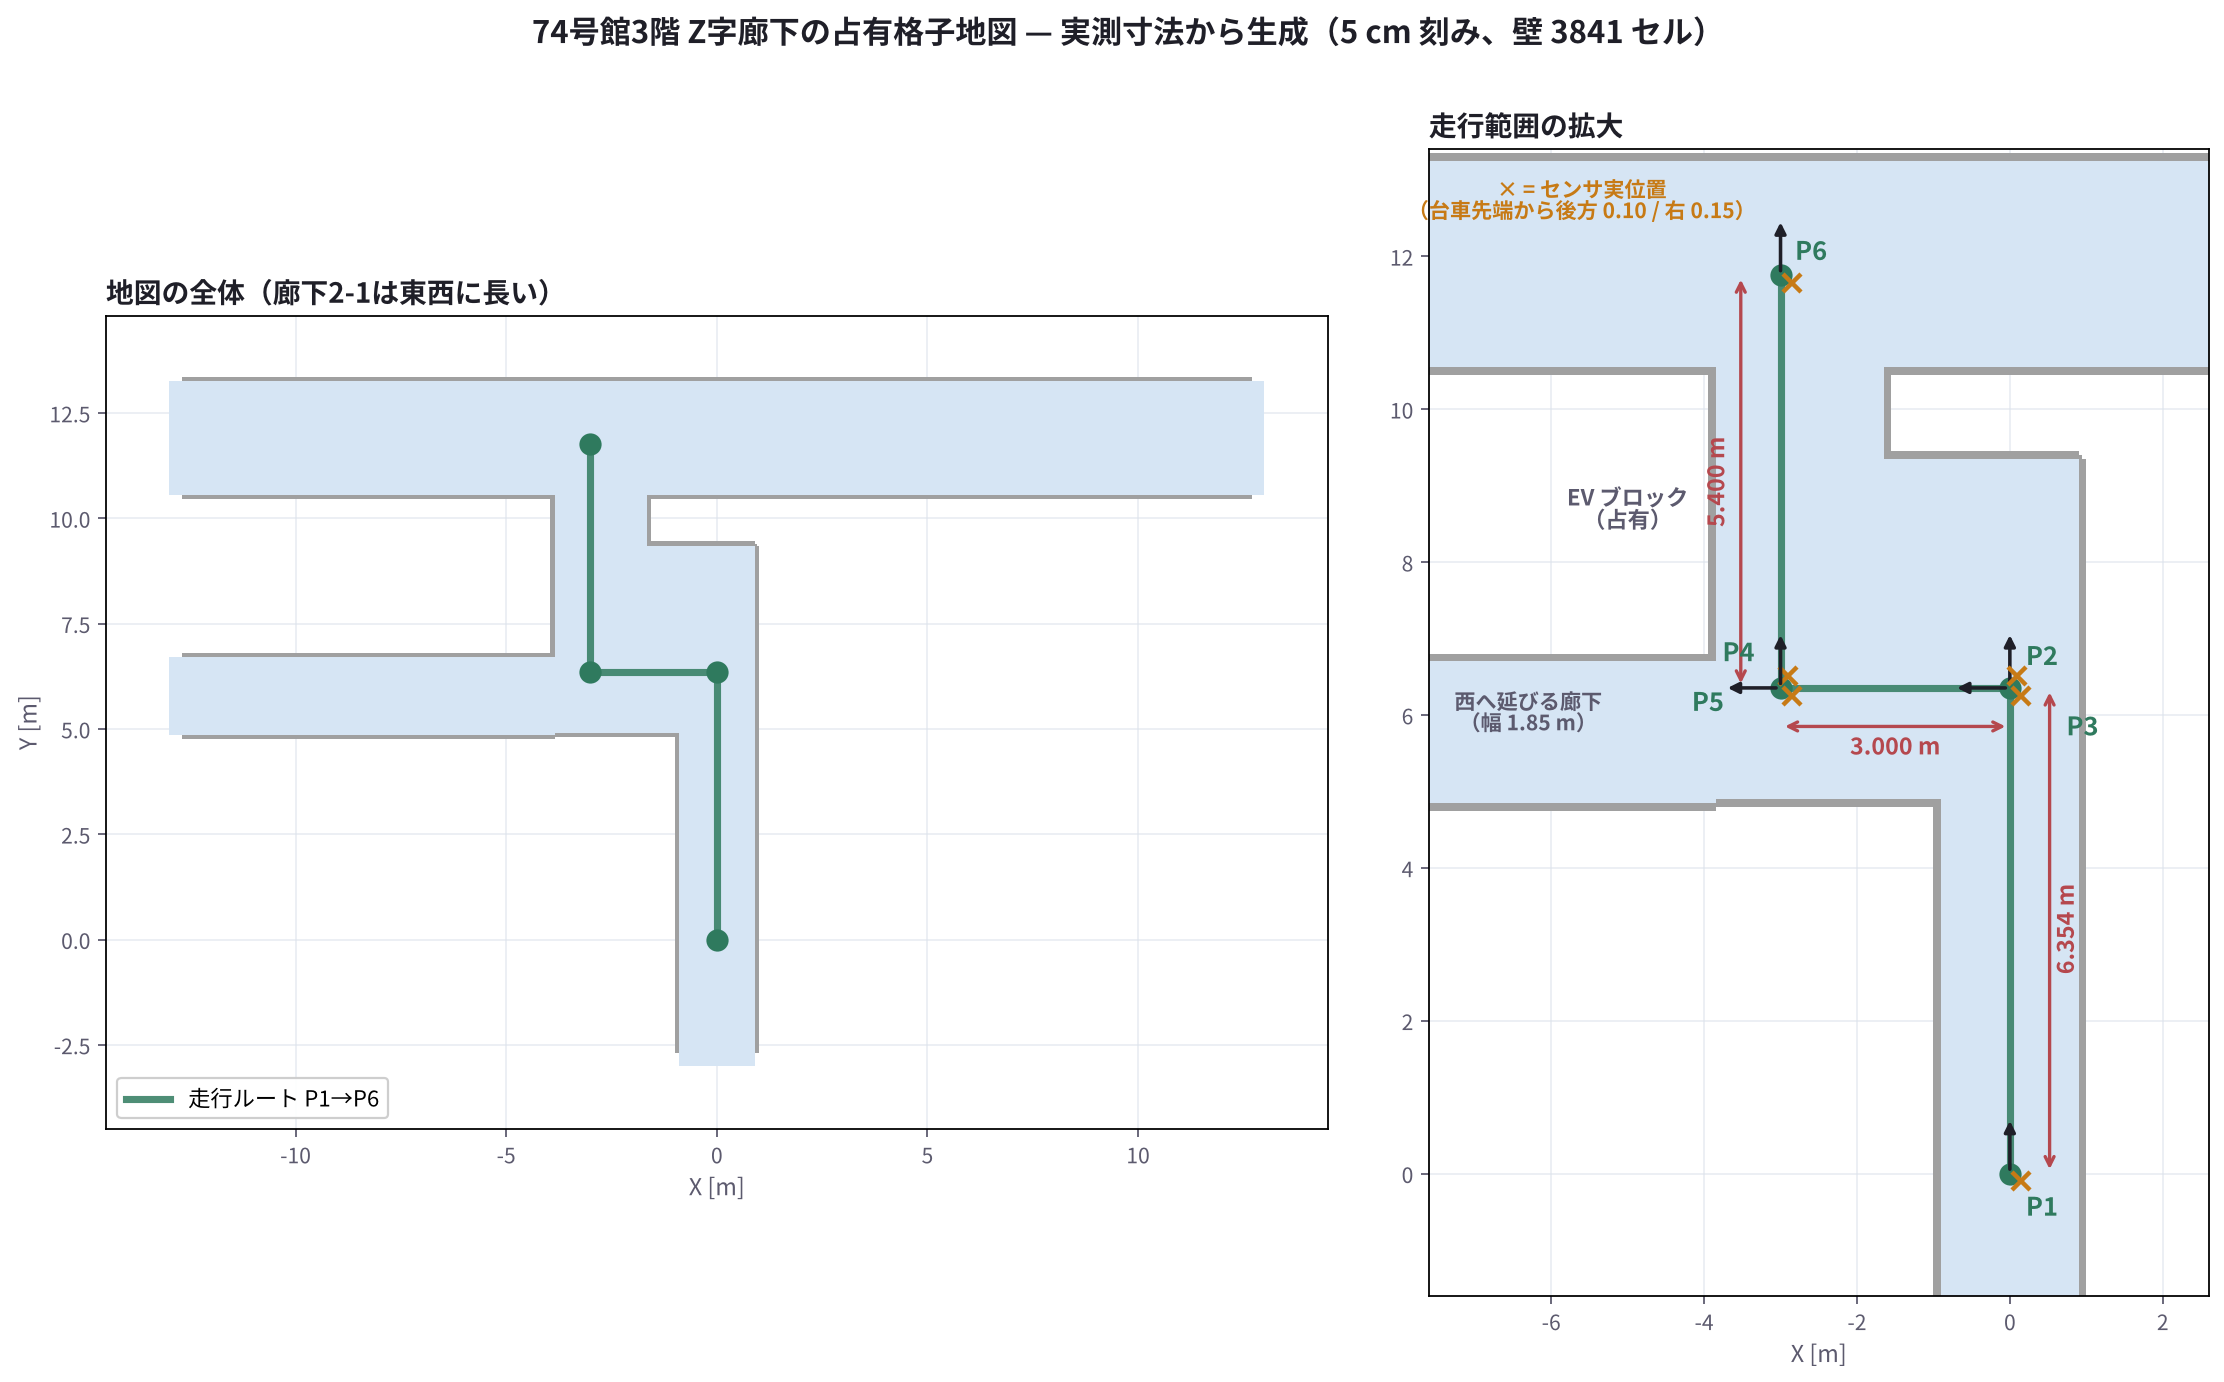
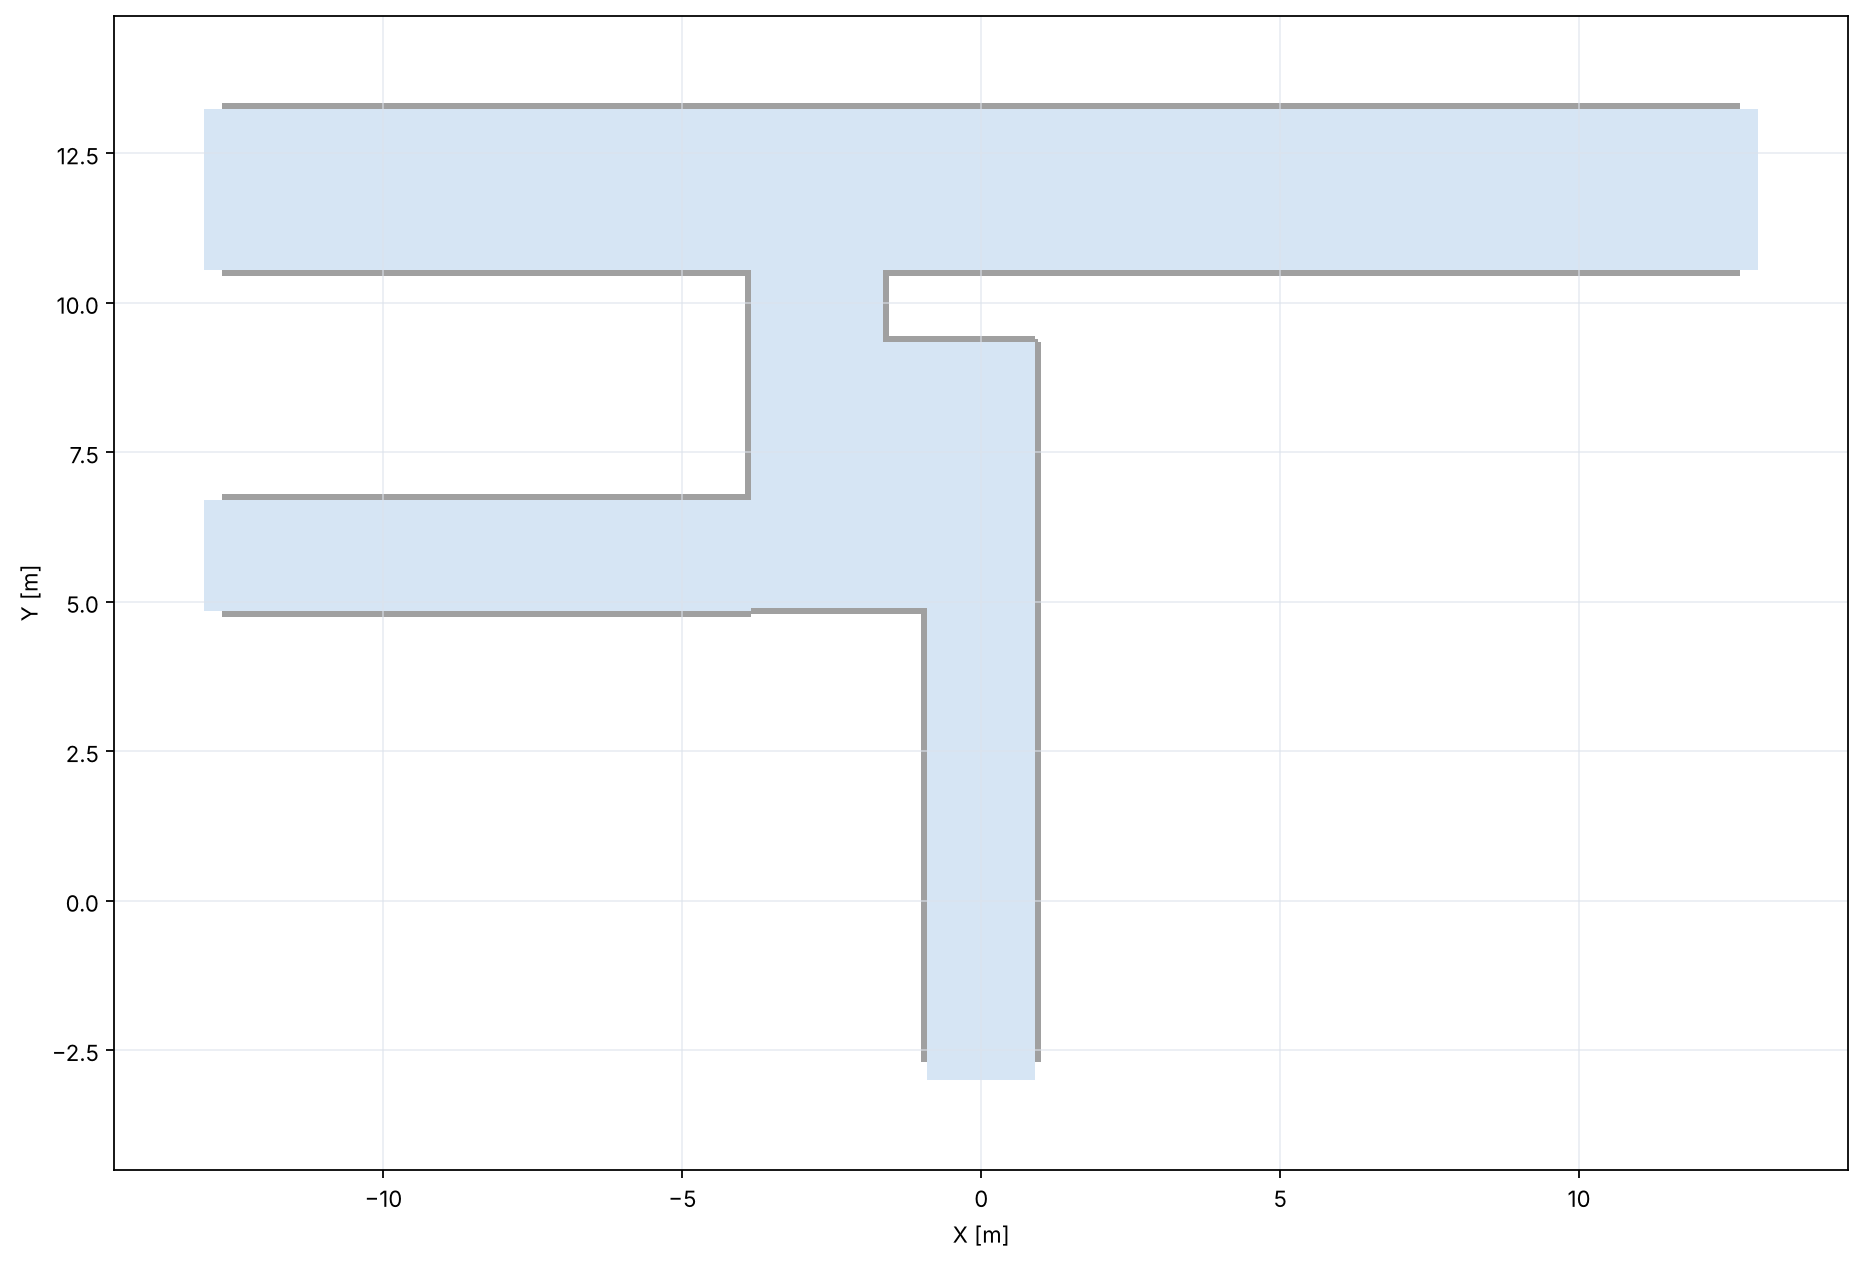
build_corridor_map.py を壁を作るだけに絞る
図に寸法線・走行ルート・センサ位置・EVブロックの注記を描き込んでいたが、
地図を確認するのに必要なのは壁と通行可能領域だけなので全部落とした。
あわせて使われていなかった POSES / sensor_pose() も削除
（リポジトリ内のどこからも参照されていなかった。走行ルートの頂点は
route_corridor.csv が持っている）。日本語ラベルが無くなったので
フォント探索も不要になった。

204行 → 112行。生成される .npz は変わらない（occ 3841 / free 50050）。

  python build_corridor_map.py          → pc/map_corridor.npz
  python build_corridor_map.py --png    → pc/map_corridor.png も

使い方.md に実行例と、壁の作り方（通行可能領域の縁を膨らませる）を追記。

Claude-Session: https://claude.ai/code/session_01HbHzUXWRkt1N3oaf6K8q3f

diff --git a/pc/build_corridor_map.py b/pc/build_corridor_map.py
@@ -1,6 +1,5 @@
 # -*- coding: utf-8 -*-
-"""
-74号館3階 Z字廊下の占有グリッド地図を実測寸法から生成する。
+"""74号館3階 Z字廊下の占有グリッド地図を実測寸法から生成する。
 
 座標系: 原点 = P1の台車先端, +Y = 進行方向(P1→P2), +X = 進行方向の右手
 実測値:
@@ -13,10 +12,11 @@
   P4→CAD西壁 1.454 m
   EVブロック  X -6.20〜-3.87, Y 7.50〜9.40
   西へ延びる廊下 幅1.850 (Y 4.87〜6.72)
+  センサは台車先端から後方0.10 / 右0.15（地図には関係しない。解析側で扱う）
 
 使い方:
-    python build_corridor_map.py            → map_corridor.npz を生成
-    python build_corridor_map.py --png      → 確認用の map_corridor.png も出す
+    python build_corridor_map.py            → map_corridor.npz
+    python build_corridor_map.py --png      → map_corridor.png も
 """
 import argparse
 import os
@@ -27,40 +27,25 @@ from scipy.ndimage import binary_dilation
 HERE = os.path.dirname(os.path.abspath(__file__))
 
 RES = 0.05
-Y_CADW   = 4.900        # CADサーバ室 西壁
-Y_EPSE   = 9.354        # EPS 東壁 (P2 + 3.000)
-Y_R21_E  = 10.544       # 廊下2-1 東壁
-Y_KYODO  = 13.254       # 共同実験室東壁 = 廊下2-1 西壁
-X_N1     = 0.900        # 廊下1 北壁
-X_CADN   = -0.900       # CADサーバ室 北壁 (= 廊下1 南壁)
-X_EVN    = -3.870       # EV北壁 = 廊下A 南壁
-X_EPSS   = -1.670       # EPS南壁 = 廊下A 北壁
-X_FAR    = 13.0         # 廊下2-1が続く範囲(片側)
-
-POSES = {   # 台車先端の姿勢 (x, y, heading[deg])
-    "P1": (0.0, 0.0, 90.0), "P2": (0.0, 6.354, 90.0), "P3": (0.0, 6.354, 180.0),
-    "P4": (-3.0, 6.354, 180.0), "P5": (-3.0, 6.354, 90.0), "P6": (-3.0, 11.754, 90.0),
-}
-SENSOR_BACK, SENSOR_RIGHT = 0.10, 0.15   # 台車先端から後方 / 右へのオフセット
-
-
-def sensor_pose(x, y, h_deg):
-    """台車先端の姿勢から、センサ本体の実位置を求める"""
-    a = np.radians(h_deg)
-    fwd = np.array([np.cos(a), np.sin(a)])
-    right = np.array([np.sin(a), -np.cos(a)])
-    p = np.array([x, y]) - fwd * SENSOR_BACK + right * SENSOR_RIGHT
-    return float(p[0]), float(p[1]), h_deg
+Y_CADW = 4.900          # CADサーバ室 西壁
+Y_EPSE = 9.354          # EPS 東壁 (P2 + 3.000)
+Y_R21_E = 10.544        # 廊下2-1 東壁
+Y_KYODO = 13.254        # 共同実験室東壁 = 廊下2-1 西壁
+X_N1 = 0.900            # 廊下1 北壁
+X_CADN = -0.900         # CADサーバ室 北壁 (= 廊下1 南壁)
+X_EVN = -3.870          # EV北壁 = 廊下A 南壁
+X_EPSS = -1.670         # EPS南壁 = 廊下A 北壁
+X_FAR = 13.0            # 廊下2-1が続く範囲(片側)
 
 
 def build(res=RES, wall=0.10, pad=1.5):
+    """通行可能領域を矩形で組み立て、その縁を厚さ wall の壁にする。"""
     lo = np.array([-X_FAR - pad, -3.0 - pad])
     hi = np.array([X_FAR + pad, Y_KYODO + pad])
     W = int(np.ceil((hi[0] - lo[0]) / res))
     H = int(np.ceil((hi[1] - lo[1]) / res))
-    xs = lo[0] + (np.arange(W) + 0.5) * res
-    ys = lo[1] + (np.arange(H) + 0.5) * res
-    XX, YY = np.meshgrid(xs, ys)
+    XX, YY = np.meshgrid(lo[0] + (np.arange(W) + 0.5) * res,
+                         lo[1] + (np.arange(H) + 0.5) * res)
 
     def box(x0, x1, y0, y1):
         return (XX >= x0) & (XX <= x1) & (YY >= y0) & (YY <= y1)
@@ -70,135 +55,58 @@ def build(res=RES, wall=0.10, pad=1.5):
     free |= box(X_EVN, X_N1, Y_CADW, Y_EPSE)             # 廊下2-2 (P2→P4)
     free |= box(X_EVN, X_EPSS, Y_EPSE, Y_R21_E)          # 廊下A (P4→P6)
     free |= box(-X_FAR, X_FAR, Y_R21_E, Y_KYODO)         # 廊下2-1 (東西に長い)
-    free |= box(-X_FAR, X_EVN, 4.87, 6.72)               # 西へ延びる廊下(幅1850)
+    free |= box(-X_FAR, X_EVN, 4.87, 6.72)               # 西へ延びる廊下
     free &= ~box(-6.20, X_EVN, 7.50, 9.40)               # EVブロックは占有
 
     r = max(1, int(round(wall / res)))
     yy, xx = np.mgrid[-r:r + 1, -r:r + 1]
     occ = binary_dilation(free, (xx ** 2 + yy ** 2) <= r ** 2) & ~free
-    # 地図の外周(廊下が続く方向)は壁にしない
+    # 廊下が地図の外へ続く方向には壁を置かない（存在しない壁に引き寄せられるため）
     edge = (XX < -X_FAR + 0.3) | (XX > X_FAR - 0.3) | (YY < -3.0 + 0.3)
     occ &= ~edge
     return dict(occ=occ, free=free, origin=lo, resolution=res, width=W, height=H)
 
 
-def _use_cjk_font():
-    """日本語が出るフォントを探す。見つからなくても落ちない。"""
-    import matplotlib.pyplot as plt
-    from matplotlib import font_manager
-    for path in ("/usr/share/fonts/opentype/noto/NotoSansCJK-Regular.ttc",
-                 "C:/Windows/Fonts/YuGothM.ttc", "C:/Windows/Fonts/msgothic.ttc",
-                 "/System/Library/Fonts/ヒラギノ角ゴシック W3.ttc"):
-        if os.path.exists(path):
-            try:
-                font_manager.fontManager.addfont(path)
-                plt.rcParams["font.family"] = \
-                    font_manager.FontProperties(fname=path).get_name()
-                break
-            except Exception:
-                pass
-    else:
-        for name in ("Noto Sans CJK JP", "Yu Gothic", "MS Gothic", "Hiragino Sans"):
-            if any(f.name == name for f in font_manager.fontManager.ttflist):
-                plt.rcParams["font.family"] = name
-                break
-    plt.rcParams["axes.unicode_minus"] = False
-
-
-def draw(m, png_path):
-    """占有格子を確認用の図にする。左=全体、右=走行範囲の拡大。"""
+def save_png(m, path):
+    """占有格子をそのまま画像にする（水色=通行可能, 灰色=壁）。"""
     import matplotlib
     matplotlib.use("Agg")
     import matplotlib.pyplot as plt
-    _use_cjk_font()
 
-    INK, SUB, GREEN, RED, ORANGE, GRID = (
-        "#1F1F28", "#5C5A6E", "#2F7A5E", "#B5484E", "#C77A15", "#DDE3EC")
     occ, free, res, org = m["occ"], m["free"], m["resolution"], m["origin"]
     H, W = occ.shape
     ext = [org[0], org[0] + W * res, org[1], org[1] + H * res]
-    route = np.array([POSES[k][:2] for k in ("P1", "P2", "P4", "P6")], float)
-
-    fig, axes = plt.subplots(1, 2, figsize=(14.2, 8.4), dpi=160,
-                             gridspec_kw={"width_ratios": [1.45, 1]})
-    for ax, lim, ttl in (
-            (axes[0], (ext[0], ext[1], ext[2], ext[3]),
-             "地図の全体（廊下2-1は東西に長い）"),
-            (axes[1], (-7.6, 2.6, -1.6, 13.4), "走行範囲の拡大")):
-        ax.imshow(np.where(free, 1.0, np.nan), origin="lower", extent=ext,
-                  cmap="Blues", vmin=0, vmax=6, interpolation="nearest", zorder=1)
-        ax.imshow(np.where(occ, 1.0, np.nan), origin="lower", extent=ext,
-                  cmap="gray", vmin=0, vmax=1.6, interpolation="nearest", zorder=2)
-        ax.plot(route[:, 0], route[:, 1], "-", color=GREEN, lw=3.2, alpha=0.85,
-                zorder=4, label="走行ルート P1→P6")
-        ax.plot(route[:, 0], route[:, 1], "o", color=GREEN, ms=9, zorder=5)
-        ax.set_xlim(lim[0], lim[1]); ax.set_ylim(lim[2], lim[3])
-        ax.set_aspect("equal")
-        ax.set_xlabel("X [m]", color=SUB, fontsize=10.5)
-        ax.grid(color=GRID, lw=0.7, alpha=0.7); ax.set_axisbelow(True)
-        ax.tick_params(colors=SUB, labelsize=9.5)
-        ax.set_title(ttl, fontsize=12.5, color=INK, fontweight="bold", loc="left")
-    axes[0].set_ylabel("Y [m]", color=SUB, fontsize=10.5)
-    axes[0].legend(fontsize=10, loc="lower left", framealpha=0.95)
-
-    ax = axes[1]
-    for k, (x, y, h) in POSES.items():
-        sx, sy, _ = sensor_pose(x, y, h)
-        ax.plot([sx], [sy], "x", color=ORANGE, ms=8, mew=2, zorder=6)
-        a = np.radians(h)
-        ax.annotate("", xy=(x + 0.75 * np.cos(a), y + 0.75 * np.sin(a)),
-                    xytext=(x, y),
-                    arrowprops=dict(arrowstyle="-|>", color=INK, lw=1.6), zorder=6)
-    for k, (dx, dy) in {"P1": (0.42, -0.55), "P2": (0.42, 0.30),
-                        "P3": (0.95, -0.62), "P4": (-0.55, 0.35),
-                        "P5": (-0.95, -0.30), "P6": (0.40, 0.20)}.items():
-        x, y, _ = POSES[k]
-        ax.annotate(k, xy=(x + dx, y + dy), fontsize=11.5, color=GREEN,
-                    fontweight="bold", ha="center", zorder=7)
-    for (p0, p1, lab, tx, rot, ha) in (
-            ((0.52, 0.0), (0.52, 6.354), "6.354 m", (0.72, 3.2), 90, "center"),
-            ((0.0, 5.85), (-3.0, 5.85), "3.000 m", (-1.5, 5.60), 0, "center"),
-            ((-3.52, 6.354), (-3.52, 11.754), "5.400 m", (-3.70, 9.05), 90, "right")):
-        ax.annotate("", xy=p0, xytext=p1,
-                    arrowprops=dict(arrowstyle="<->", color=RED, lw=1.5))
-        ax.annotate(lab, xy=tx, fontsize=10.5, color=RED, rotation=rot,
-                    va="center", ha=ha, fontweight="bold")
-    ax.annotate("EV ブロック\n（占有）", xy=(-5.0, 8.45), fontsize=10, color=SUB,
-                ha="center", fontweight="bold", zorder=7)
-    ax.annotate("西へ延びる廊下\n（幅 1.85 m）", xy=(-6.3, 5.8), fontsize=9.5,
-                color=SUB, ha="center", fontweight="bold", zorder=7)
-    ax.annotate("× = センサ実位置\n（台車先端から後方 %.2f / 右 %.2f）"
-                % (SENSOR_BACK, SENSOR_RIGHT), xy=(-5.6, 12.5), fontsize=9.5,
-                color=ORANGE, ha="center", fontweight="bold", zorder=7)
-
-    fig.suptitle("74号館3階 Z字廊下の占有格子地図 — 実測寸法から生成"
-                 f"（{res*100:.0f} cm 刻み、壁 {int(occ.sum())} セル）",
-                 fontsize=14, color=INK, fontweight="bold", y=0.995)
-    fig.tight_layout(rect=[0, 0, 1, 0.955])
-    fig.savefig(png_path, bbox_inches="tight", facecolor="white")
+    fig, ax = plt.subplots(figsize=(13.0, 8.0), dpi=160)
+    ax.imshow(np.where(free, 1.0, np.nan), origin="lower", extent=ext,
+              cmap="Blues", vmin=0, vmax=6, interpolation="nearest")
+    ax.imshow(np.where(occ, 1.0, np.nan), origin="lower", extent=ext,
+              cmap="gray", vmin=0, vmax=1.6, interpolation="nearest")
+    ax.set_aspect("equal")
+    ax.set_xlabel("X [m]")
+    ax.set_ylabel("Y [m]")
+    ax.grid(color="#DDE3EC", lw=0.7, alpha=0.7)
+    ax.set_axisbelow(True)
+    fig.tight_layout()
+    fig.savefig(path, bbox_inches="tight", facecolor="white")
     plt.close(fig)
 
 
 if __name__ == "__main__":
     ap = argparse.ArgumentParser(description="廊下の占有格子地図を実測寸法から作る")
-    ap.add_argument("--npz", default=os.path.join(HERE, "map_corridor.npz"),
-                    help="出力する .npz（既定はこのスクリプトと同じ場所）")
+    ap.add_argument("--npz", default=os.path.join(HERE, "map_corridor.npz"))
     ap.add_argument("--png", nargs="?", const=os.path.join(HERE, "map_corridor.png"),
-                    default=None, help="確認用の画像も出す（既定 map_corridor.png）")
+                    default=None, help="画像も出す（既定 map_corridor.png）")
     ap.add_argument("--res", type=float, default=RES, help="セルの大きさ [m]")
+    ap.add_argument("--wall", type=float, default=0.10, help="壁の厚さ [m]")
     a = ap.parse_args()
 
-    m = build(res=a.res)
+    m = build(res=a.res, wall=a.wall)
     np.savez(a.npz, occ=m["occ"], free=m["free"],
              origin=m["origin"], resolution=m["resolution"])
     print(f"保存しました: {a.npz}")
-    print(f"  {m['width']}x{m['height']} セル ({m['resolution']*100:.0f} cm), "
-          f"通行可能 {m['free'].sum()} セル = {m['free'].sum()*a.res**2:.1f} m2, "
+    print(f"  {m['width']}x{m['height']} セル ({m['resolution'] * 100:.0f} cm), "
+          f"通行可能 {m['free'].sum()} セル = {m['free'].sum() * a.res ** 2:.1f} m2, "
           f"壁 {m['occ'].sum()} セル")
-    for k, v in POSES.items():
-        sp = sensor_pose(*v)
-        print(f"  {k}: 先端{v} → センサ({sp[0]:+.2f},{sp[1]:+.2f},{sp[2]:.0f}°)")
-
     if a.png:
-        draw(m, a.png)
+        save_png(m, a.png)
         print(f"画像を保存しました: {a.png}")

diff --git a/pc/使い方.md b/pc/使い方.md
@@ -114,6 +114,18 @@ X_CADN   = -0.900    # 廊下1 南壁 (幅1.8m)
 
 座標系は「原点 = P1の台車先端、+Y = 進行方向、+X = 右手」です。
 
+```bash
+python build_corridor_map.py          # pc/map_corridor.npz
+python build_corridor_map.py --png    # pc/map_corridor.png も出して目で確認する
+```
+
+出力先はスクリプトと同じ場所に固定してあるので、どのディレクトリから実行しても
+`pc/` に入ります。`--npz` / `--png` で変えられます。
+
+地図は通行可能領域の矩形を足し合わせて作り、**その縁を厚さ10cmに膨らませたものを壁**に
+しています。壁を直接描かないので、矛盾した壁ができません。廊下が地図の外へ続く方向
+には壁を置いていません（存在しない壁にパーティクルが引き寄せられるため）。
+
 **別の場所の地図を作りたい場合**は、代わりに `build_map.py` を使うと、
 区間の長さと幅を並べるだけで作れます。
 
